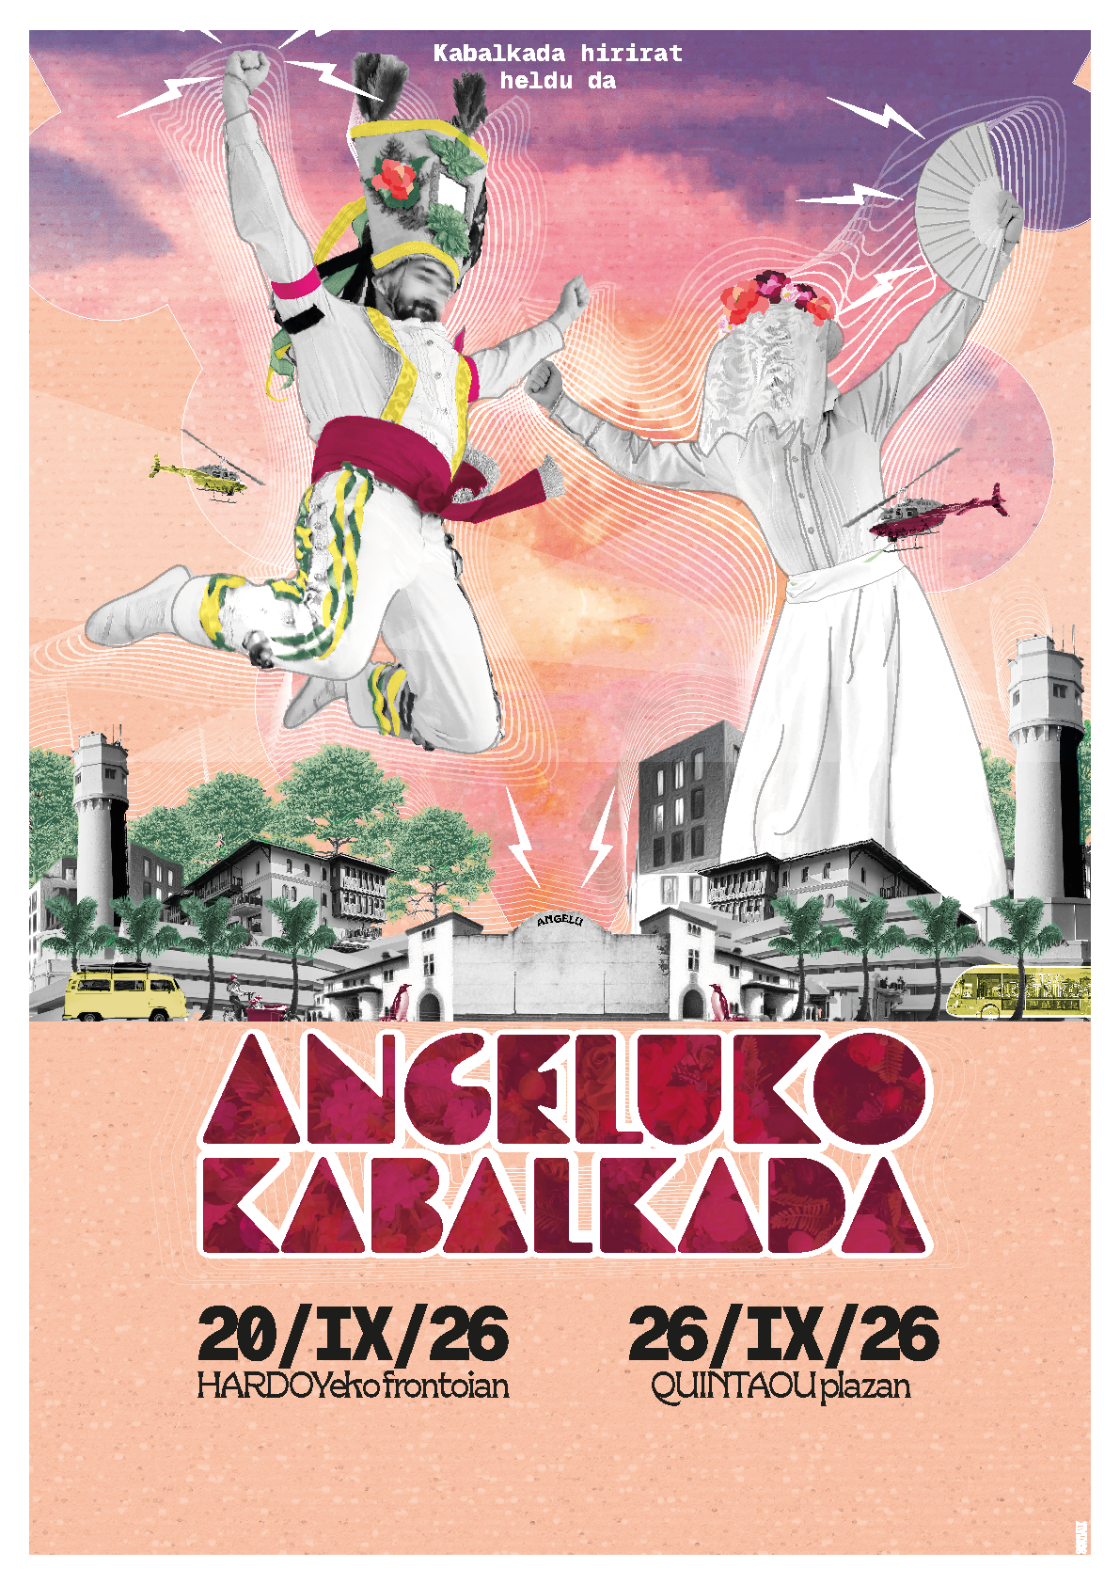
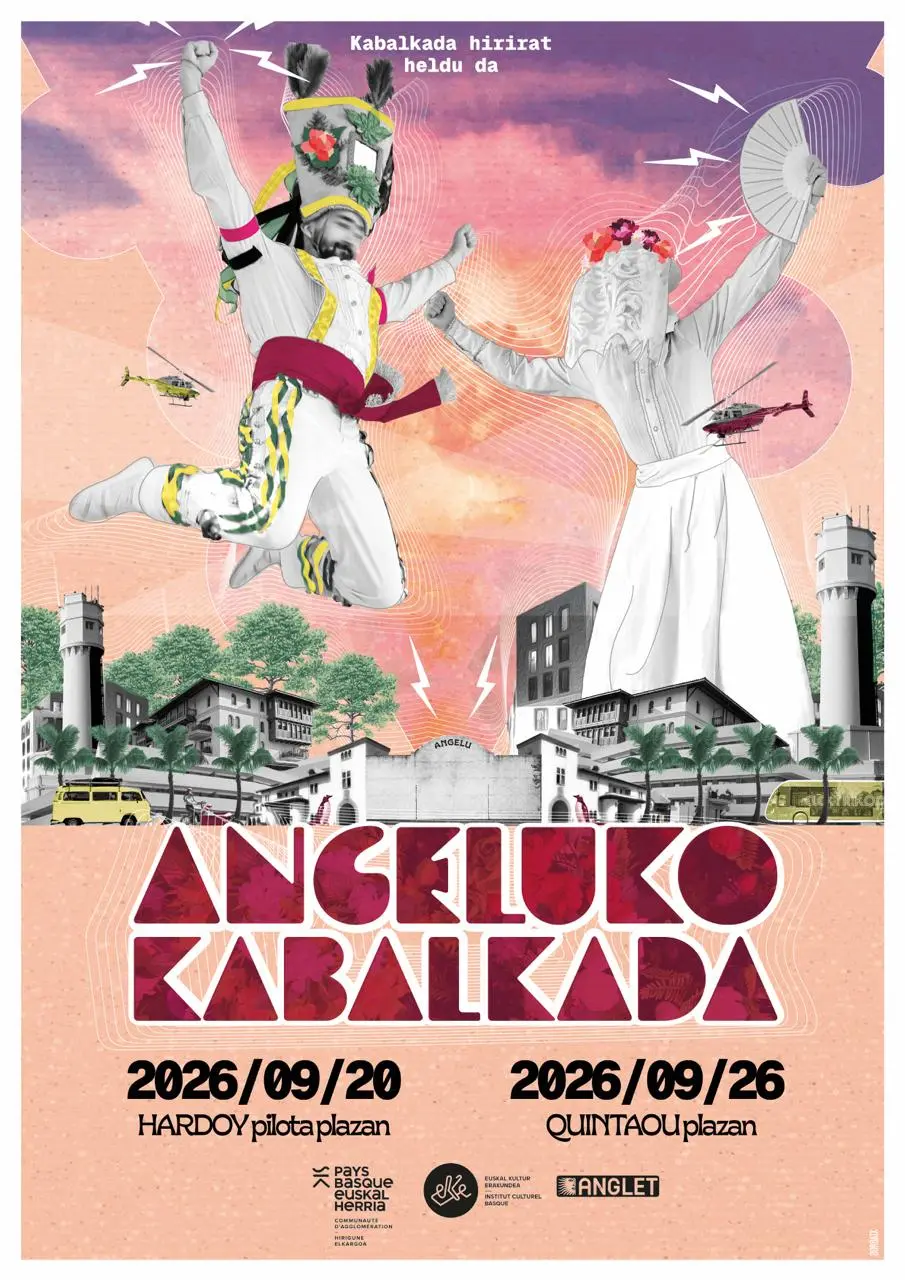
Merge pull request #32 from JFL64600/change-date-affiche
feat(i18n): update event dates in eus and fr translations; refactor h…

Pull request: feat(i18n): update event dates in eus and fr translations; refactor h…
…eader to use translation keys

diff --git a/src/app/header/header.component.html b/src/app/header/header.component.html
@@ -13,11 +13,11 @@
   <div class="header-container" *transloco="let t; prefix: 'header'">
     <div class="dates">
       <div>
-        <span>20/09/26</span>
+        <span>{{ t("hardoy-date") }}</span>
         <span>{{ t("hardoy") }}</span>
       </div>
       <div>
-        <span>26/09/26</span>
+        <span>{{ t("quintaou-date") }}</span>
         <span>{{ t("quintaou") }}</span>
       </div>
     </div>